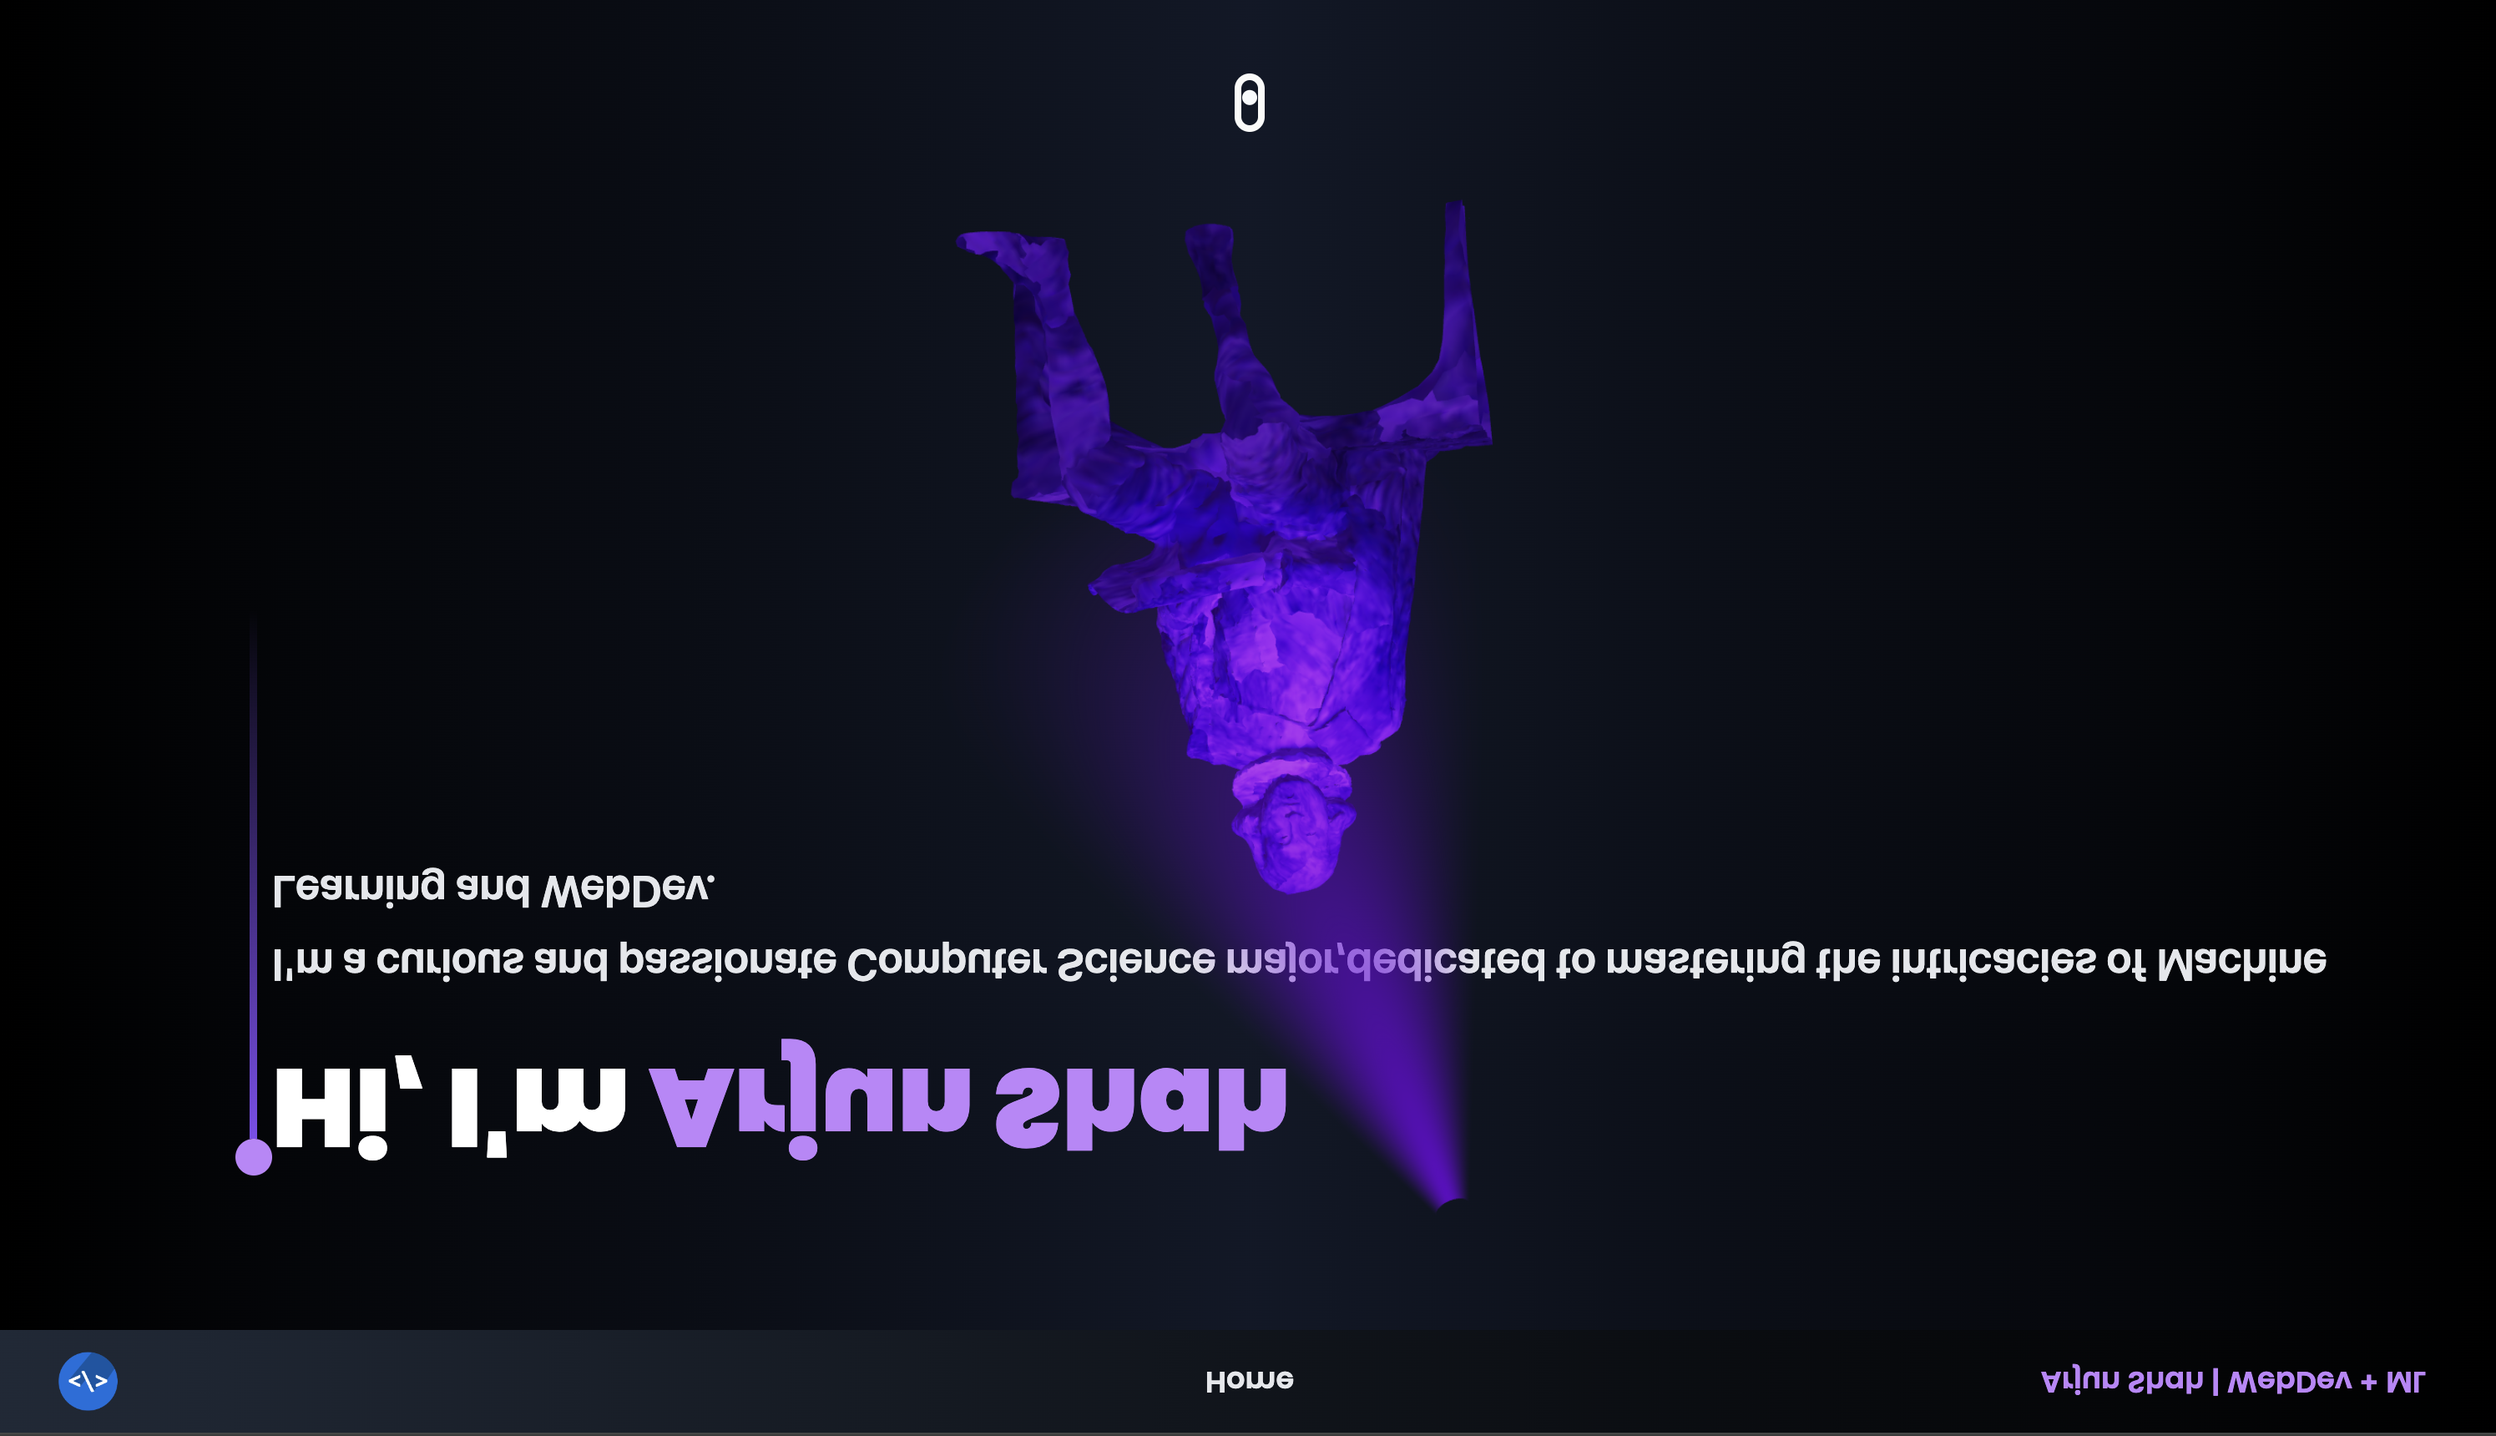
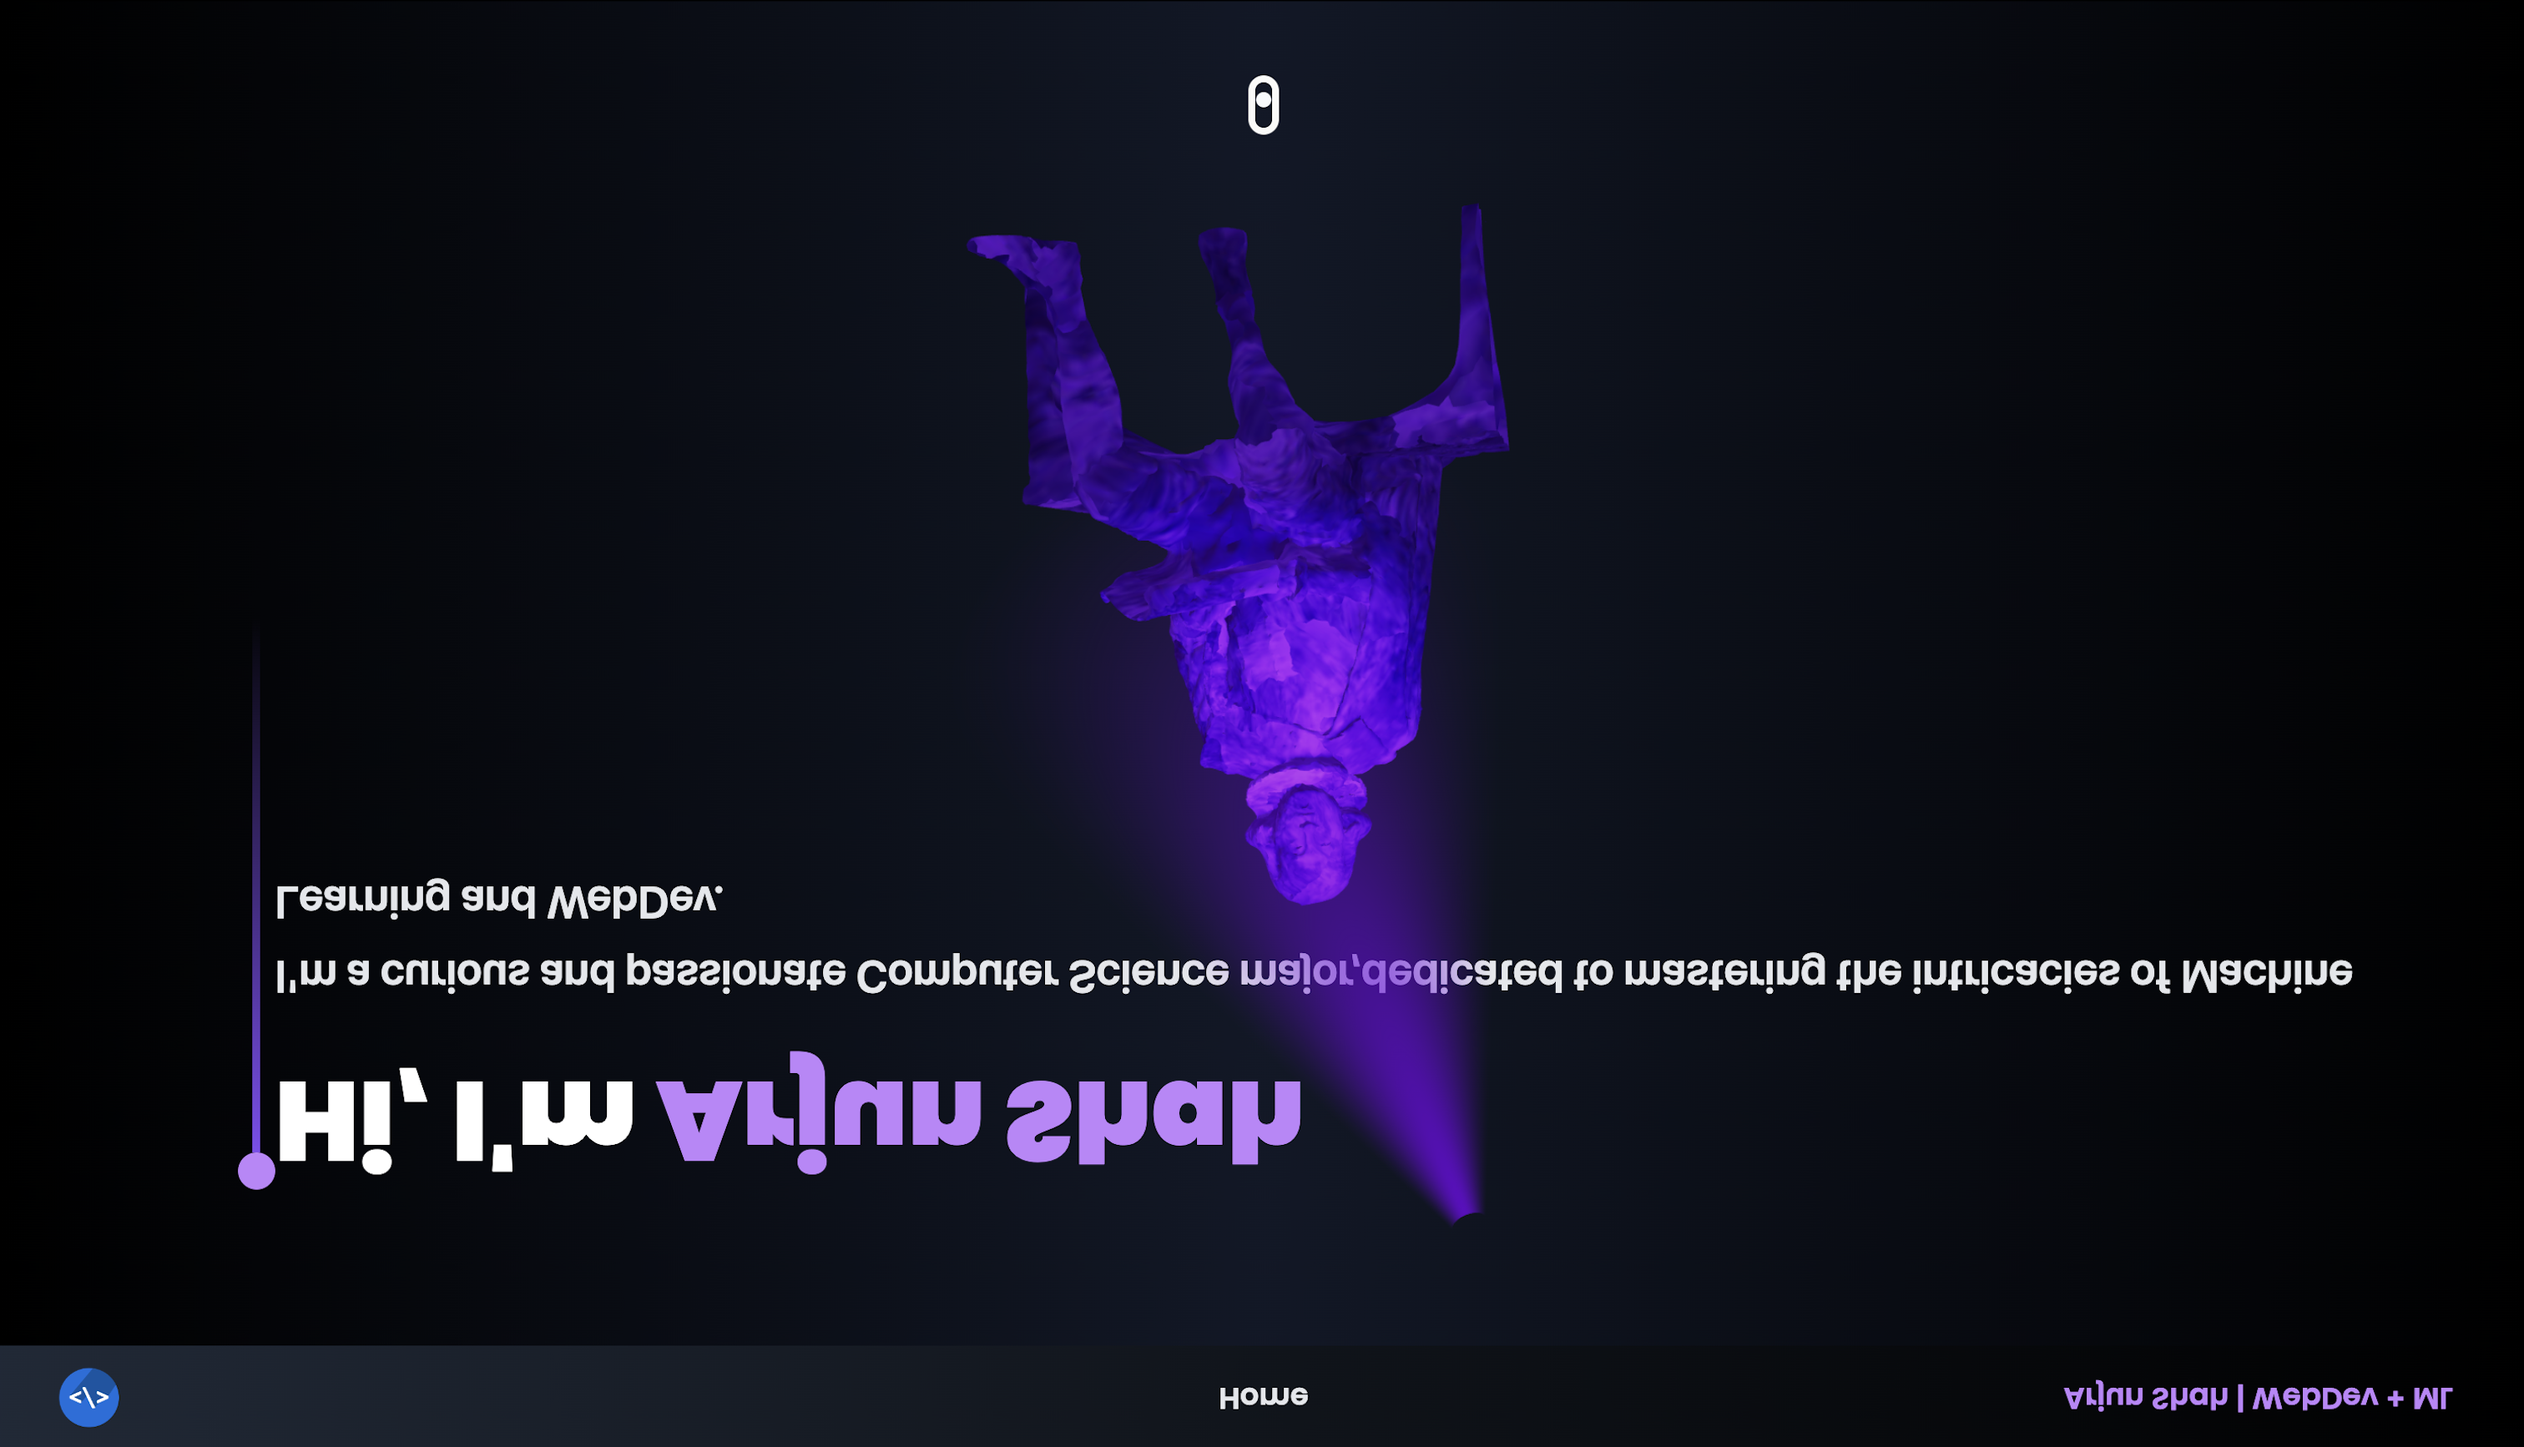
Laptop Chnages Added

diff --git a/src/components/canvas/Laptop.jsx b/src/components/canvas/Laptop.jsx
@@ -7,22 +7,20 @@ import { a as web } from "@react-spring/web";
 import * as THREE from "three";
 import screenImage from "../background.jpeg";
 
+import { useNavigate } from "react-router-dom";
+
 const vec = new THREE.Vector3();
 
-function Model({ open, hinge, ...props }) {
+function Model({ open, hinge, scale, ...props }) {
   const group = useRef();
 
-  // Load model
   const { nodes, materials } = useGLTF("/mac-draco.glb");
 
-  // Take care of cursor state on hover
   const [hovered, setHovered] = useState(false);
-  useEffect(
-    () => void (document.body.style.cursor = hovered ? "pointer" : "auto"),
-    [hovered]
-  );
+  useEffect(() => {
+    document.body.style.cursor = hovered ? "pointer" : "auto";
+  }, [hovered]);
 
-  // Make it float in the air when it's opened
   useFrame((state) => {
     const t = state.clock.getElapsedTime();
     state.camera.position.lerp(vec.set(0, 0, open ? -24 : -32), 0.1);
@@ -48,13 +46,13 @@ function Model({ open, hinge, ...props }) {
       0.1
     );
   });
+
   const texture = new THREE.TextureLoader().load(screenImage);
 
-  // The view was auto-generated by: https://github.com/pmndrs/gltfjsx
-  // Events and spring animations were added afterwards
   return (
     <group
       ref={group}
+      scale={[scale, scale, scale]}
       {...props}
       onPointerOver={(e) => (e.stopPropagation(), setHovered(true))}
       onPointerOut={() => setHovered(false)}
@@ -73,9 +71,8 @@ function Model({ open, hinge, ...props }) {
           <mesh
             material={materials["screen.001"]}
             geometry={nodes["Cube008_2"].geometry}
-            scale={[1, 1, 1]} // Adjust the scale as needed
+            scale={[1, 1, 1]}
           >
-            {/* Apply the texture to the screen material */}
             <meshBasicMaterial attach="material" map={texture} />
           </mesh>
         </group>
@@ -104,9 +101,26 @@ function Model({ open, hinge, ...props }) {
   );
 }
 
-function Laptop() {
+function Laptop({ onOpenChange }) {
   // This flag controls open state, alternates between true & false
   const [open, setOpen] = useState(false);
+  const [isMobile, setIsMobile] = useState(false);
+  const navigate = useNavigate();
+
+  useEffect(() => {
+    const mediaQuery = window.matchMedia("(max-width: 500px)");
+    setIsMobile(mediaQuery.matches);
+
+    const handleMediaQueryChange = (event) => {
+      setIsMobile(event.matches);
+    };
+
+    mediaQuery.addEventListener("change", handleMediaQueryChange);
+
+    return () => {
+      mediaQuery.removeEventListener("change", handleMediaQueryChange);
+    };
+  }, []);
 
   // We turn this into a spring animation that interpolates between 0 and 1
   const props = useSpring({ open: Number(open) });
@@ -114,7 +128,8 @@ function Laptop() {
   return (
     <web.main
       style={{
-        background: props.open.to([0, 1], ["#f0f0f0", "#d25578"]),
+        background: props.open.to([0, 1], ["#020617", "#030712"]),
+        transition: "background 0.5s ease-in",
         width: "100vw", // Set width to 100% of viewport width
         height: "100vh", // Set height to 100% of viewport height
         overflow: "hidden", // Hide overflow to prevent scrolling
@@ -125,34 +140,37 @@ function Laptop() {
         padding: 0,
       }}
     >
-      <web.h1
-        style={{
-          opacity: props.open.to([0, 1], [1, 0]),
-          transform: props.open.to(
-            (o) => `translate3d(-50%,${o * 50 - 100}px,0)`
-          ),
-        }}
-      >
-        hello
-      </web.h1>
       <Canvas dpr={[1, 2]} camera={{ position: [0, 0, 0], fov: 35 }}>
         <three.pointLight
           position={[10, 10, 10]}
           intensity={1.5}
-          color={props.open.to([0, 1], ["#f0f0f0", "#d25578"])}
+          color={props.open.to([0, 1], ["#f0f0f0", "#1903EF"])}
         />
 
         <ContactShadows
           rotation-x={Math.PI / 2}
-          position={[0, -4.5, 0]}
+          position={[0, 0, 0]}
           opacity={0.4}
           width={20}
           height={20}
           blur={2}
           far={4.5}
         />
-        <group rotation={[0, Math.PI, 0]} onClick={() => setOpen(!open)}>
-          <Model open={open} hinge={props.open.to([0, 1], [1.575, -0.425])} />
+        <group
+          rotation={[0, Math.PI, 0]}
+          onClick={() => {
+            setOpen(!open);
+            onOpenChange(!open); // Notify the parent component about the open state change
+            if (open) {
+              navigate("/next");
+            }
+          }}
+        >
+          <Model
+            open={open}
+            hinge={props.open.to([0, 1], [1.575, -0.425])}
+            scale={isMobile ? 0.5 : 1}
+          />
         </group>
       </Canvas>
     </web.main>

diff --git a/src/index.css b/src/index.css
@@ -113,92 +113,3 @@
   -webkit-background-clip: text;
   -webkit-text-fill-color: transparent;
 }
-
-/* canvas- styles */
-.canvas-loader {
-  font-size: 10px;
-  width: 1em;
-  height: 1em;
-  border-radius: 50%;
-  position: relative;
-  text-indent: -9999em;
-  animation: mulShdSpin 1.1s infinite ease;
-  transform: translateZ(0);
-}
-
-@keyframes mulShdSpin {
-  0%,
-  100% {
-    box-shadow: 0em -2.6em 0em 0em #ffffff,
-      1.8em -1.8em 0 0em rgba(255, 255, 255, 0.2),
-      2.5em 0em 0 0em rgba(255, 255, 255, 0.2),
-      1.75em 1.75em 0 0em rgba(255, 255, 255, 0.2),
-      0em 2.5em 0 0em rgba(255, 255, 255, 0.2),
-      -1.8em 1.8em 0 0em rgba(255, 255, 255, 0.2),
-      -2.6em 0em 0 0em rgba(255, 255, 255, 0.5),
-      -1.8em -1.8em 0 0em rgba(255, 255, 255, 0.7);
-  }
-  12.5% {
-    box-shadow: 0em -2.6em 0em 0em rgba(255, 255, 255, 0.7),
-      1.8em -1.8em 0 0em #ffffff, 2.5em 0em 0 0em rgba(255, 255, 255, 0.2),
-      1.75em 1.75em 0 0em rgba(255, 255, 255, 0.2),
-      0em 2.5em 0 0em rgba(255, 255, 255, 0.2),
-      -1.8em 1.8em 0 0em rgba(255, 255, 255, 0.2),
-      -2.6em 0em 0 0em rgba(255, 255, 255, 0.2),
-      -1.8em -1.8em 0 0em rgba(255, 255, 255, 0.5);
-  }
-  25% {
-    box-shadow: 0em -2.6em 0em 0em rgba(255, 255, 255, 0.5),
-      1.8em -1.8em 0 0em rgba(255, 255, 255, 0.7), 2.5em 0em 0 0em #ffffff,
-      1.75em 1.75em 0 0em rgba(255, 255, 255, 0.2),
-      0em 2.5em 0 0em rgba(255, 255, 255, 0.2),
-      -1.8em 1.8em 0 0em rgba(255, 255, 255, 0.2),
-      -2.6em 0em 0 0em rgba(255, 255, 255, 0.2),
-      -1.8em -1.8em 0 0em rgba(255, 255, 255, 0.2);
-  }
-  37.5% {
-    box-shadow: 0em -2.6em 0em 0em rgba(255, 255, 255, 0.2),
-      1.8em -1.8em 0 0em rgba(255, 255, 255, 0.5),
-      2.5em 0em 0 0em rgba(255, 255, 255, 0.7), 1.75em 1.75em 0 0em #ffffff,
-      0em 2.5em 0 0em rgba(255, 255, 255, 0.2),
-      -1.8em 1.8em 0 0em rgba(255, 255, 255, 0.2),
-      -2.6em 0em 0 0em rgba(255, 255, 255, 0.2),
-      -1.8em -1.8em 0 0em rgba(255, 255, 255, 0.2);
-  }
-  50% {
-    box-shadow: 0em -2.6em 0em 0em rgba(255, 255, 255, 0.2),
-      1.8em -1.8em 0 0em rgba(255, 255, 255, 0.2),
-      2.5em 0em 0 0em rgba(255, 255, 255, 0.5),
-      1.75em 1.75em 0 0em rgba(255, 255, 255, 0.7), 0em 2.5em 0 0em #ffffff,
-      -1.8em 1.8em 0 0em rgba(255, 255, 255, 0.2),
-      -2.6em 0em 0 0em rgba(255, 255, 255, 0.2),
-      -1.8em -1.8em 0 0em rgba(255, 255, 255, 0.2);
-  }
-  62.5% {
-    box-shadow: 0em -2.6em 0em 0em rgba(255, 255, 255, 0.2),
-      1.8em -1.8em 0 0em rgba(255, 255, 255, 0.2),
-      2.5em 0em 0 0em rgba(255, 255, 255, 0.2),
-      1.75em 1.75em 0 0em rgba(255, 255, 255, 0.5),
-      0em 2.5em 0 0em rgba(255, 255, 255, 0.7), -1.8em 1.8em 0 0em #ffffff,
-      -2.6em 0em 0 0em rgba(255, 255, 255, 0.2),
-      -1.8em -1.8em 0 0em rgba(255, 255, 255, 0.2);
-  }
-  75% {
-    box-shadow: 0em -2.6em 0em 0em rgba(255, 255, 255, 0.2),
-      1.8em -1.8em 0 0em rgba(255, 255, 255, 0.2),
-      2.5em 0em 0 0em rgba(255, 255, 255, 0.2),
-      1.75em 1.75em 0 0em rgba(255, 255, 255, 0.2),
-      0em 2.5em 0 0em rgba(255, 255, 255, 0.5),
-      -1.8em 1.8em 0 0em rgba(255, 255, 255, 0.7), -2.6em 0em 0 0em #ffffff,
-      -1.8em -1.8em 0 0em rgba(255, 255, 255, 0.2);
-  }
-  87.5% {
-    box-shadow: 0em -2.6em 0em 0em rgba(255, 255, 255, 0.2),
-      1.8em -1.8em 0 0em rgba(255, 255, 255, 0.2),
-      2.5em 0em 0 0em rgba(255, 255, 255, 0.2),
-      1.75em 1.75em 0 0em rgba(255, 255, 255, 0.2),
-      0em 2.5em 0 0em rgba(255, 255, 255, 0.2),
-      -1.8em 1.8em 0 0em rgba(255, 255, 255, 0.5),
-      -2.6em 0em 0 0em rgba(255, 255, 255, 0.7), -1.8em -1.8em 0 0em #ffffff;
-  }
-}

diff --git a/src/pages/Test.jsx b/src/pages/Test.jsx
@@ -1,10 +1,68 @@
-import React from "react";
+import React, { useState } from "react";
 import Laptop from "../components/canvas/Laptop";
+import { Typewriter } from "react-simple-typewriter";
+import { styles } from "../styles";
+import { motion } from "framer-motion";
+import Navbar from "../components/Navbar";
 
 export const Test = () => {
+  const [laptopOpen, setLaptopOpen] = useState(false);
+
   return (
-    <div className="min-h-screen">
-      <Laptop />
+    <div className="min-h-screen flex flex-row justify-center items-center relative">
+      {!laptopOpen && (
+        <div className="flex flex-col justify-center items-center w-5/6 text-center">
+          <p className="font-sans text-gray-200 text-lg z-10">
+            <Typewriter
+              words={[
+                "Greetings and welcome to my portfolio. Delve into the enigma below to unravel the essence of my craft.",
+                "Click on the Laptop",
+              ]}
+              cursor
+              cursorStyle=""
+              loop={1}
+            />
+          </p>
+          <div className="w-full mt-10 flex justify-center items-center z-10">
+            <a>
+              <motion.div
+                animate={{
+                  y: [-10, 10, -10],
+                }}
+                transition={{
+                  duration: 2,
+                  repeat: Infinity,
+                  repeatType: "loop",
+                }}
+                className="flex justify-center items-center"
+              >
+                <span
+                  aria-hidden="true"
+                  className="text-4xl font-extrabold text-gray-200"
+                >
+                  &darr;
+                </span>
+              </motion.div>
+            </a>
+          </div>
+        </div>
+      )}
+      <Laptop
+        className={`z-20`}
+        onOpenChange={(isOpen) => setLaptopOpen(isOpen)}
+      />
+      {laptopOpen && (
+        <div className="absolute bottom-10 flex justify-center items-center">
+          <p className="font-sans text-gray-200 text-lg">
+            <Typewriter
+              words={["(Click on the Screen)"]}
+              cursor
+              cursorStyle=""
+              loop={1}
+            />
+          </p>
+        </div>
+      )}
     </div>
   );
 };

diff --git a/src/App.js b/src/App.js
@@ -1,16 +1,31 @@
 import { BrowserRouter, Routes, Route } from "react-router-dom";
 import { Landing } from "./pages/Landing";
 import { Test } from "./pages/Test";
+import AnimatedCursor from "react-animated-cursor";
 
 export default function App() {
   return (
     <div className="App">
       <BrowserRouter>
         <Routes>
-          <Route path="/" element={<Landing />} />
-          // <Route path="/Test" element={<Test />} />
+          <Route path="/Next" element={<Landing />} />
+          <Route path="/" element={<Test />} />
         </Routes>
       </BrowserRouter>
+      <AnimatedCursor
+        innerSize={8}
+        outerSize={20}
+        innerScale={1}
+        outerScale={2}
+        outerAlpha={0}
+        hasBlendMode={true}
+        innerStyle={{
+          backgroundColor: "",
+        }}
+        outerStyle={{
+          border: "2px solid white",
+        }}
+      />
     </div>
   );
 }

diff --git a/src/components/Loader.jsx b/src/components/Loader.jsx
@@ -1,10 +1,11 @@
 import { Html, useProgress } from "@react-three/drei";
+import { InfinitySpin } from "react-loader-spinner";
 
 const CanvasLoader = () => {
   const { progress } = useProgress();
   return (
     <Html
-      as='div'
+      as="div"
       center
       style={{
         display: "flex",
@@ -13,16 +14,17 @@ const CanvasLoader = () => {
         flexDirection: "column",
       }}
     >
-      <span className='canvas-loader'></span>
+      <span className="canvas-loader"></span>
+      <InfinitySpin width="200" color="#680CEE" />
       <p
         style={{
           fontSize: 14,
-          color: "#F1F1F1",
+          color: "white",
           fontWeight: 800,
           marginTop: 40,
         }}
       >
-        {progress.toFixed(2)}%
+        <div className="white">{progress.toFixed(2)}%</div>
       </p>
     </Html>
   );
